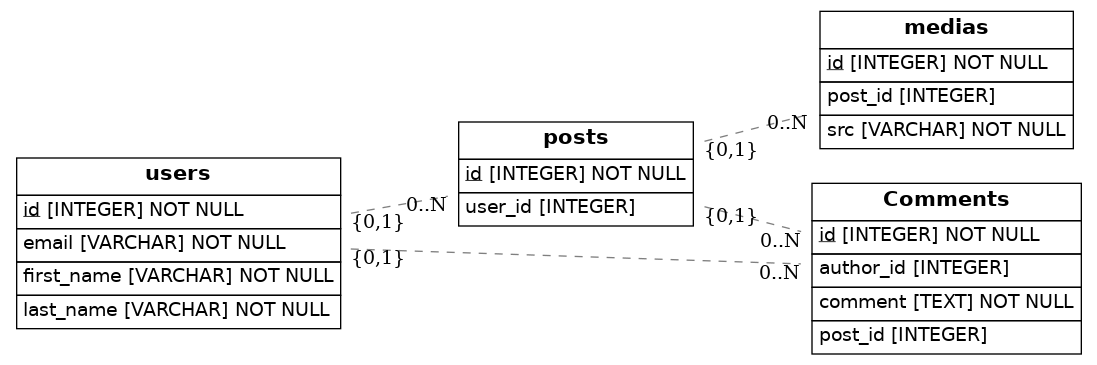
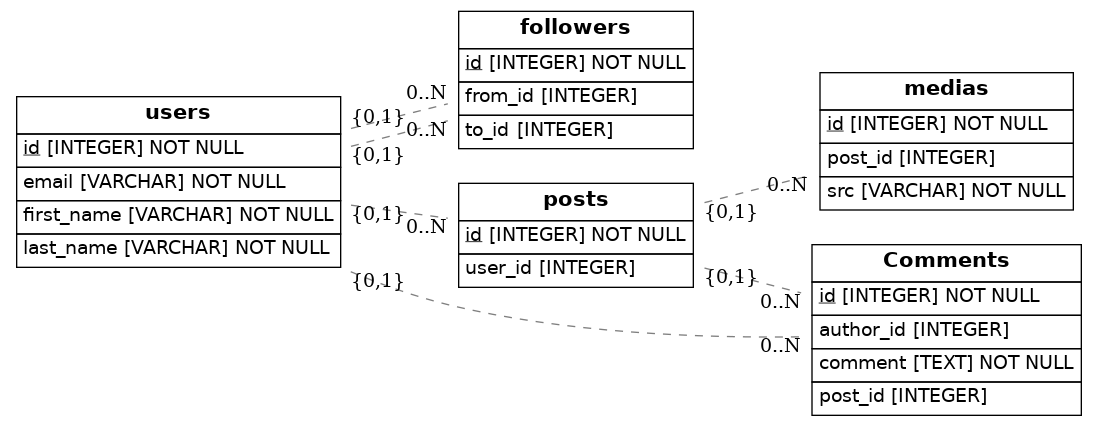
Followers table added

diff --git a/src/models.py b/src/models.py
@@ -8,6 +8,14 @@ from eralchemy2 import render_er
 
 Base = declarative_base()
 
+class Followers(Base):
+    __tablename__ = 'followers'
+    id = Column(Integer, primary_key=True)
+    from_id = Column(Integer, ForeignKey('users.id'))
+    to_id = Column(Integer, ForeignKey('users.id'))
+    from_user = relationship('Users', foreign_keys=[from_id], backref="follower")
+    to_user = relationship('Users', foreign_keys=[to_id], backref="following")
+
 class Users(Base):
     __tablename__ = 'users'
     id = Column(Integer, primary_key=True)
